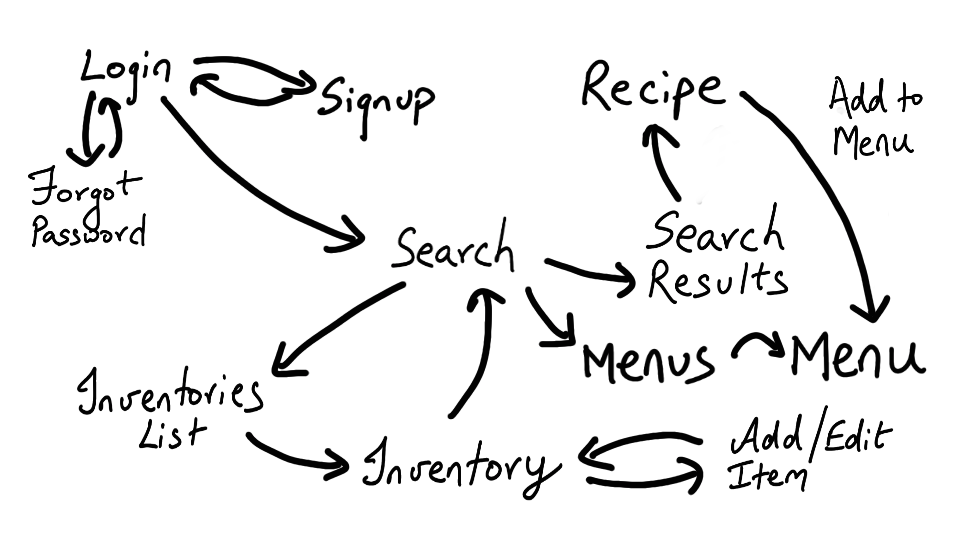
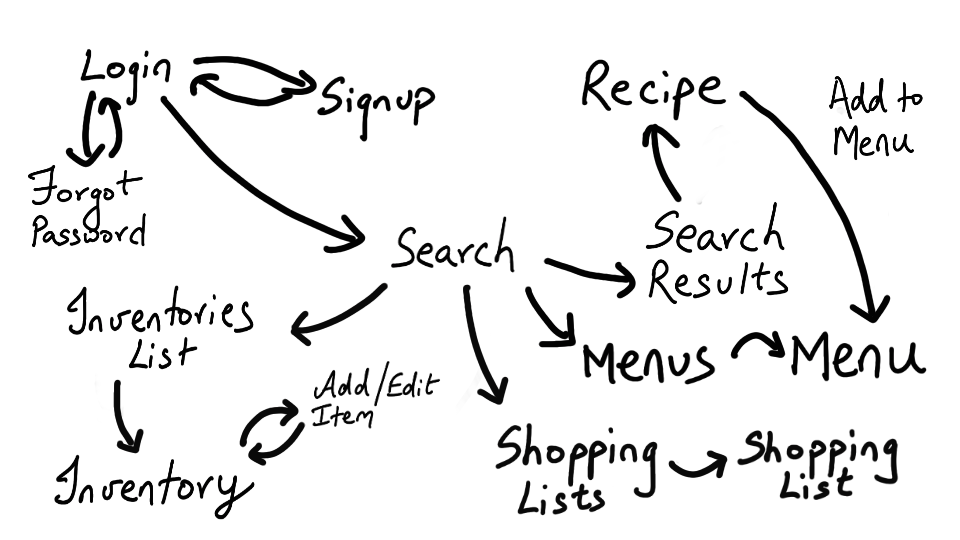
Completed whiteboarding, shopping lists, flow diagram, error flows, empty states

Changed region(s): [[0.0625, 0.5333, 0.9375, 0.9481], [0.0625, 0.8593, 0.2812, 0.9778], [0.375, 0.5037, 0.4375, 0.563]]

diff --git a/public/content/page-content/design/whiteboarding.md b/public/content/page-content/design/whiteboarding.md
@@ -179,6 +179,7 @@ A menu is a collection of recipes for dishes that the user wants to create at a 
 *Fig. 21: Menus*
 
 Clicking on a particular menu in the menu list shows the particulars of a menu. This includes the name of the menu, the list of recipes added to the menu and a cummulative list of ingredients created by summing over the ingredients required for individual recipes in the menu. The user can also choose to delete a recipe from the menu.
+
 Clicking on a particular recipe in the menu will lead the user to the recipe page such as the one in **Fig. 9**.
 
 ![Menu](/content/page-content/design/whiteboarding-imgs/menu.png "Menu")
@@ -187,8 +188,9 @@ Clicking on a particular recipe in the menu will lead the user to the recipe pag
 ![Menu Update Inventory Button](/content/page-content/design/whiteboarding-imgs/menu-update-inventory.png "Menu Update Inventory Button")
 *Fig. 23: Menu Update Inventory Button*
 
-![Menu Attributes](/content/page-content/design/whiteboarding-imgs/menu-attributes.png "Menu Attributes")
-*Fig. 24: Menu Attributes*
+To allow a user to add a recipe to the menu, we add a 'add to menu' button on the recipe. Clicking this button will open a modal that asks the users choose a menu to add this recipe to.
+![Add to Menu](/content/page-content/design/whiteboarding-imgs/add-to-menu.png "Add to Menu")
+*Fig. 25: Add to Menu*
 
 ### Inventories
 An inventory stores a list of ingredients available with the user. Instead of constricting the user to just one inventory, we choose to allow the user to create many 'inventories' or lists of ingredients. The user may want to track an inventory at multiple locations invidually, say their grandmother lives next door and they would want to track her inventory too, for her. When designing we may not need a compelling reason to allow the user to do more, but we'll need a compelling reason to restrict the user. But this comes with a tradeoff if the flow doesn't seem natural enough then it can confuse the users.
@@ -196,37 +198,105 @@ An inventory stores a list of ingredients available with the user. Instead of co
 The inventory list is exactly what the name says, it is a list of inventories that are depicted as a table. The elements in the row may show information about the individual inventories, it can also have action buttons to call the user to perform further action on the element.
 
 ![Inventory List](/content/page-content/design/whiteboarding-imgs/inventory-list.png "Inventory List")
-*Fig. 25: List of Inventories*
+*Fig. 26: List of Inventories*
 
 ![Inventory List Sort](/content/page-content/design/whiteboarding-imgs/sort-inventory-list.png "Inventory List Sort")
-*Fig. 26: Sorting the List of Inventories*
+*Fig. 27: Sorting the List of Inventories*
 
 The 'add an inventory' button above the table creates a new inventory object and adds a pointer to it in the table. 
 
 ![Add Inventory Button](/content/page-content/design/whiteboarding-imgs/inventory-list-add.png "Add Inventory Button")
-*Fig. 27: Add Inventory*
+*Fig. 28: Add Inventory*
 
 But before it can add the inventory object we show display a large box above the content, called a modal, that captures some basic identifying information about the object. This flow forces the user to provide, say, a name for the inventory, if they don't then inventory is not created.
 
 ![New Inventory Modal](/content/page-content/design/whiteboarding-imgs/new-inventory-modal.png "New Inventory Modal")
-*Fig. 28: New Inventory Modal*
+*Fig. 29: New Inventory Modal*
 
-An inventory is a list of available ingredients. A user can add new ingredients to the inventory by clicking on the 'add ingredients' button, depicted by the 'plus' symbol above the table.
+An inventory is a list of available ingredients. Each row represents an available ingredient along with the quantity available. 
 
 ![Inventory](/content/page-content/design/whiteboarding-imgs/inventory.png "Inventory")
-*Fig. 29: Inventory*
+*Fig. 30: Inventory*
+
+A user can add new ingredients to the inventory by clicking on the 'add ingredients' button, depicted by the 'plus' symbol above the table. The modal allows users to choose an ingredient from a pre-defined set of ingredients and also provide the amount available in their physical pantry.
+
+![Add Ingredient to Inventory Modal](/content/page-content/design/whiteboarding-imgs/inventory-add-ingredients.png "Add Ingredient to Inventory Modal")
+*Fig. 31: Add Ingredient to Inventory Modal*
 
 The user can launch a search from the inventory page, as per the original idea. However, a constraint added on the search was that it should look for recipes such that there are enough ingredients for all the items in the menu together. To do this, the menu would need to be linked to the search that is about to be launched. To link the menu, again a modal is shown that allows the user to choose the menu they want to link to.
 
 ![Choose Menu Modal](/content/page-content/design/whiteboarding-imgs/choose-menu-modal.png "Choose Menu Modal")
-*Fig. 30: Choose Menu Modal*
+*Fig. 32: Choose Menu Modal*
 
 An alternative idea would be to link the inventory permanently to a menu, and not have a modal everytime we launch a search. In other words the menu linked becomes an attribute of the inventory. This could have the same effect, but this is a good example of how reflecting the real-world relationships when depicting these virtual relationships can help the user understand the system faster and more intuitively. In the real-world a menu is not an attribute of an inventory, one could have potentially different menus that are created from the same inventory, for example, given bread and eggs, a user could decide to have two alternative menus, one that has an omelette sandwich, and the other that has scrambled eggs on toast. Linking a menu as an attribute of an inventory removes the transient - short-lived - nature of the relationship and between a menu and an inventory and makes having a world where multiple menus are linked to an inventory as attributes is hard to understand for user.
 
-## Flow Diagram
-![Flow Diagram](/content/page-content/design/whiteboarding-imgs/flow-diagram.png "Flow Diagram")
-*Fig. 31: Flow Diagram*
+To help make the search more relevant, the menu can have a set of attributes which can be by the search. Examples of these attributes could be the meal type or meal parts. Meal types is the attribute that determines whether the search results should include breakfast or lunch dishes. Meal parts means whether the search should include dishes for the parts of meal such as appetizers, main course or desserts.
 
-## Negative Flows
+![Menu Attributes](/content/page-content/design/whiteboarding-imgs/menu-attributes.png "Menu Attributes")
+*Fig. 33: Menu Attributes*
+## Shopping Lists
+![Shopping Lists](/content/page-content/design/whiteboarding-imgs/shopping-lists.png "Shopping Lists")
+*Fig. 34: Shopping Lists*
+
+Though search helps users build menus given ingredients they already have with them. But say they build a menu which has a few or more ingredients that do not have in their pantry. Another useful feature of 'In my pantry,' would be help users create a list of items for which they would have to acquire in order to be able to make all the recipes in the menu, at least according to the recipes for each item.
+
+As for menus and inventories, this application will allow users to create multiple shopping lists. The table in fig. 32 displays the list of shopping lists. Users can use the 'create new shopping list' to create a fresh shopping list.
+
+![Shopping List](/content/page-content/design/whiteboarding-imgs/shopping-list.png "Shopping List")
+*Fig. 35: Shopping List*
+
+As mentioned above a shopping list is list of ingredients and their respective required quantities needed for the user to successfully be able to prepare all the dishes in the menu. Accordingly, the table in fig. 33 is a list of ingredients and their quantities. A function to generate a shopping list will take a menu, or list of recipes, and an inventory, or a list of available ingredients, and it will generate a list of required ingredients as per the ingredients listed for each recipe and it will perform a subtraction over the required quantity and available quantity for each element. We choose to make the menu and inventory are attributes of the shopping list as the shopping list makes sense only given the menu and the inventory, unlike the transient way in which we used the menu for search by asking the user to choose a menu when performing a search from the inventory page in fig. 29.
+
+## Flow Diagram
+When talking about individual page designs above, we have already covered the many ways they interact with each other, but drawing out the actual web of interactions between the different pages, when whiteboarding, can help provide a 100 feet in the air view of the application pages and their interactions.
+
+![Flow Diagram](/content/page-content/design/whiteboarding-imgs/flow-diagram.png "Flow Diagram")
+*Fig. 36: Flow Diagram*
+
+The starting point of the application would be the search page, shown in fig. 34 at the centre of the web. The user can perform a search using the search bar and move to the search page. Alternatively, using the drop-down menu shown in fig. 13, the user can navigate to the other pages, namely the menus page, inventories page, or the shopping lists page. By clicking on a list item in the respective tables, users can move to the specific menu, inventory or shopping list page.
+
+By performing a search a user will be shown the search results page. By clicking on a search result, the user will be shown a recipe page. Here the user can click the add-to-menu button to add the recipe to the menu.
+
+It should be pointed out that for the sake of not making the diagram even more intricate than it already is, we have left out drawing an arrow from the inventory and menu node to the shopping list node which could have indicated the use of the inventory and menu when creating the shopping list if drawn.
+
+The user can go to the login page using the login option in the hamburger menu (link not shown for brevity). From the login page the user may go to the sign-up page to sign-up if they haven't already, or they may go to the forgot credentials page if they need to reset their credentials. If th user is able to login successfully they will be taken to the search page again, but this time in the logged-in state.
+
+## Error Flows
+Most flows we have discussed above are so called 'happy paths,' that is the flow taken when the user is on the right trajectory to complete what they want to complete, for example, search leads to search results which leads to recipes that can get added to the menu. Alternatively, the happy path for submitting a username and password is for the user to be logged in. If the user provided the wrong username and password combination, the user cannot be logged in. At this point, the application should inform the user of this and help the user recover onto the right path.
+
+The screens below capture error flows for when the user is attempting to signup and when the username is not unique as in fig. 37 and when the password is too weak as in fig. 38.
+
+Error flows are usually displayed in red out of convention for caution, so we use that colour too below.
+
+![Username Taken Error](/content/page-content/design/whiteboarding-imgs/username-taken-error.png "Username Taken Error")
+*Fig. 37: Username Taken Error*
+
+![Password Too Weak Error](/content/page-content/design/whiteboarding-imgs/password-error.png "Password Too Weak Error")
+*Fig. 38: Password Too Weak Error*
 
 ## Empty States
+The data backing the tables in the figures displaying the search results, list of inventories, list of menus, inventory, menu and shopping list, were all non-empty and therefore were populated with rows - one for each datum. But what if there is no data to start with, these tables would be empty. While having empty tables is not necessarily an issue, it can still leave the user confused as to whether there is no data, or if there was something that went wrong on the page load or if the data still hadn't arrived. It should be noted that most users would not go into this level of detail in their analysis, but they would still subconsciously be unnerved, therefore it makes sense to inform the user about the state of the table where possible.
+
+If the table were still loading, a loading animation can be displayed to the let the users know that. Similarly, if the load has completed and there indeed was no data to display in the table - known as an empty state - informing the users that the table is empty and what they could do to start populating the table can make the entire experience smoother for them as this will help them rule out thinking about other possible issues.
+
+Below, we loop through some of the tables and show drawings of what empty states would look like for them. Empty state messages follow similar templates, inform the user that the particular data set is empty, and what next to do about it.
+
+We inventories' empty state message to illustrate: *There are no inventories. Use the add inventory button to get started.*
+
+![Search Empty State](/content/page-content/design/whiteboarding-imgs/search-empty-state.png "Search Empty State")
+*Fig. 39: Search Empty State*
+
+![Inventories Empty State](/content/page-content/design/whiteboarding-imgs/inventories-empty-state.png "Inventories Empty State")
+*Fig. 40: Inventories Empty State*
+
+![Inventory Empty State](/content/page-content/design/whiteboarding-imgs/inventory-empty-state.png "Inventory Empty State")
+*Fig. 41: Inventory Empty State*
+
+![Menus Empty State](/content/page-content/design/whiteboarding-imgs/menus-empty-state.png "Menus Empty State")
+*Fig. 42: Menus Empty State*
+
+![Menu Empty State](/content/page-content/design/whiteboarding-imgs/menu-empty-state.png "Menu Empty State")
+*Fig. 43: Menu Empty State*
+
+![Shopping List Empty State](/content/page-content/design/whiteboarding-imgs/shopping-list-empty-state.png "Shopping List Empty State")
+*Fig. 44: Shopping List Empty State*
